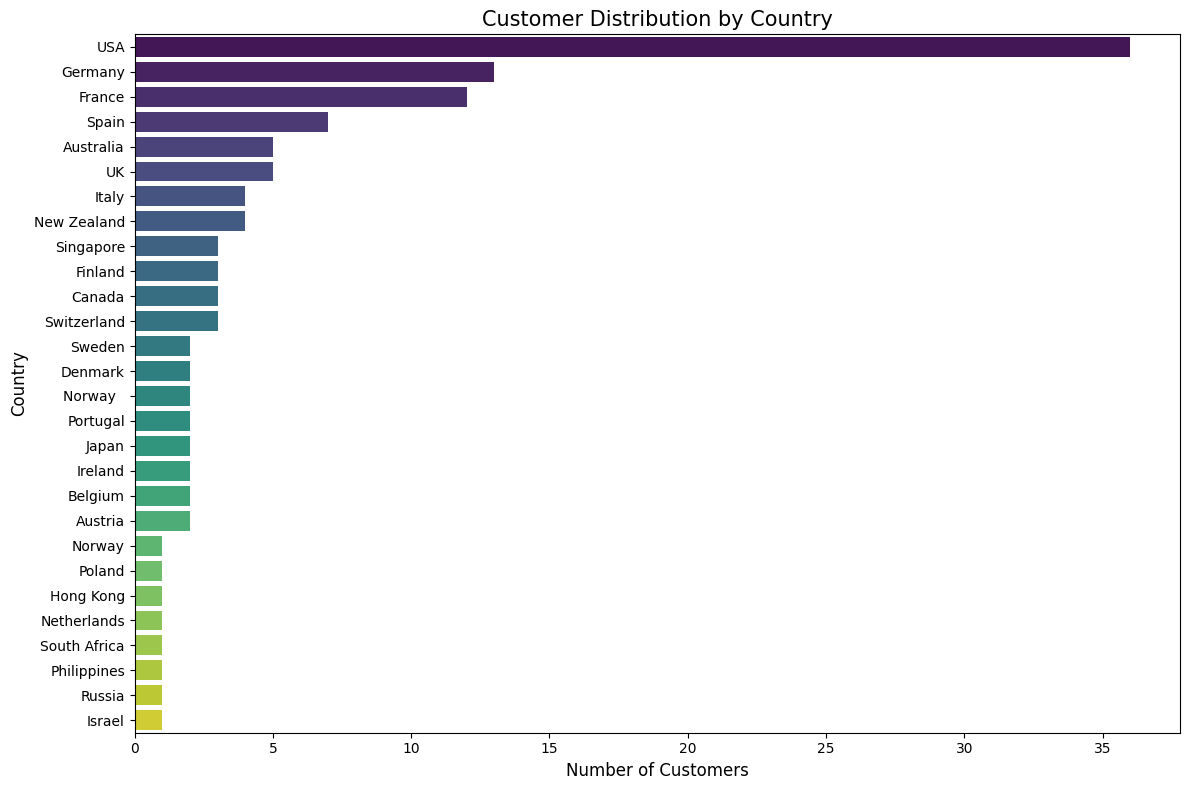
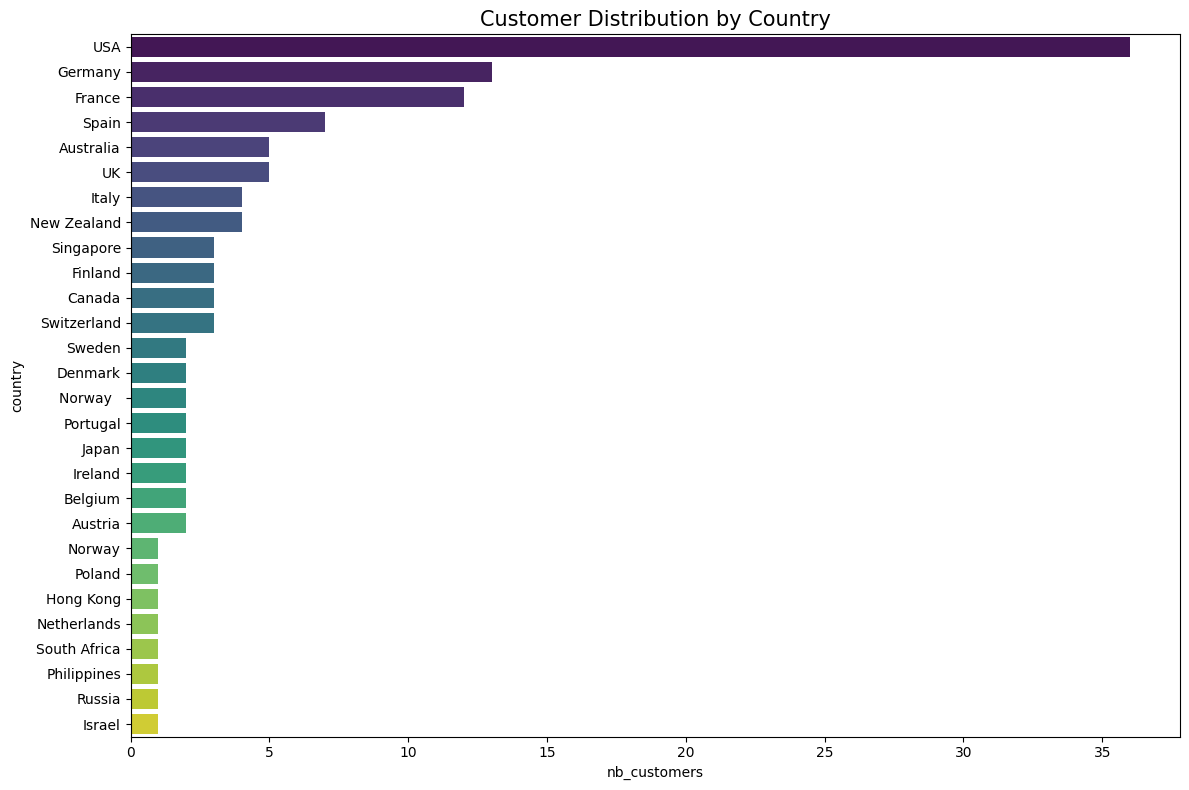
Création graphiques : top 10 produits les plus vendus

diff --git a/src/analysis/generate.visuals.py b/src/analysis/generate.visuals.py
@@ -8,11 +8,11 @@ def run_analysis():
     project_root = os.path.abspath(os.path.join(current_dir, "../../"))
     target_folder = os.path.join(project_root, "visualisations")
     
-    # Ensuring the folder exists !
+    # Ensuring the folder exists!
     os.makedirs(target_folder, exist_ok=True)
 
-    # Now i fetch data from mysql workbench
-    print("Step 1: Connecting to database and fetching data...")
+    # --- Chart 1: Customer distribution by country ---
+    print("Step 1: Fetching Geodata...")
     query_geo = """
         SELECT country, COUNT(*) AS nb_customers 
         FROM customers 
@@ -21,27 +21,41 @@ def run_analysis():
     """
     df_geo = get_db_data(query_geo)
 
-    # 3. VISUALIZATION
     print("Step 2: Generating Sales by Country chart...")
     plt.figure(figsize=(12, 8))
-    
-    # Updated to avoid the FutureWarning
     sns.barplot(data=df_geo, x='nb_customers', y='country', hue='country', palette='viridis', legend=False)
-    
     plt.title('Customer Distribution by Country', fontsize=15)
-    plt.xlabel('Number of Customers', fontsize=12)
-    plt.ylabel('Country', fontsize=12)
     plt.tight_layout()
-
-    # 4. SAVING: Using the absolute path with the 's' spelling
-    output_path = os.path.join(target_folder, "sales_by_country.png")
     
-    print(f"DEBUG: Saving file to: {output_path}")
+    output_path = os.path.join(target_folder, "sales_by_country.png")
     plt.savefig(output_path, bbox_inches='tight')
     plt.close()
-    
-    print(f"SUCCESS! You can find the file here: {output_path}")
+    print(f"SUCCESS! Saved: {output_path}")
 
-# THE START BUTTON
+    # --- Chart 2: Top 10 Best Selling Products ---
+    # NOTE: This is now INSIDE the function (indented)
+    print("Step 3: Generating Top 10 Products chart...")
+    query_products = """
+        SELECT p.productName, SUM(od.quantityOrdered) AS total_quantity
+        FROM orderdetails od
+        JOIN products p ON od.productCode = p.productCode
+        GROUP BY p.productName
+        ORDER BY total_quantity DESC
+        LIMIT 10;
+    """
+    df_prod = get_db_data(query_products)
+    
+    plt.figure(figsize=(12, 8))
+    sns.barplot(data=df_prod, x='total_quantity', y='productName', hue='productName', palette='coolwarm', legend=False)
+    plt.title('Top 10 Best Selling Products')
+    plt.xlabel('Quantity Sold')
+    plt.tight_layout()
+    
+    final_output = os.path.join(target_folder, "top_10_products.png")
+    plt.savefig(final_output)
+    plt.close()
+    print(f"SUCCESS! Saved: {final_output}")
+
+# The entry point that starts the function
 if __name__ == "__main__":
     run_analysis()
